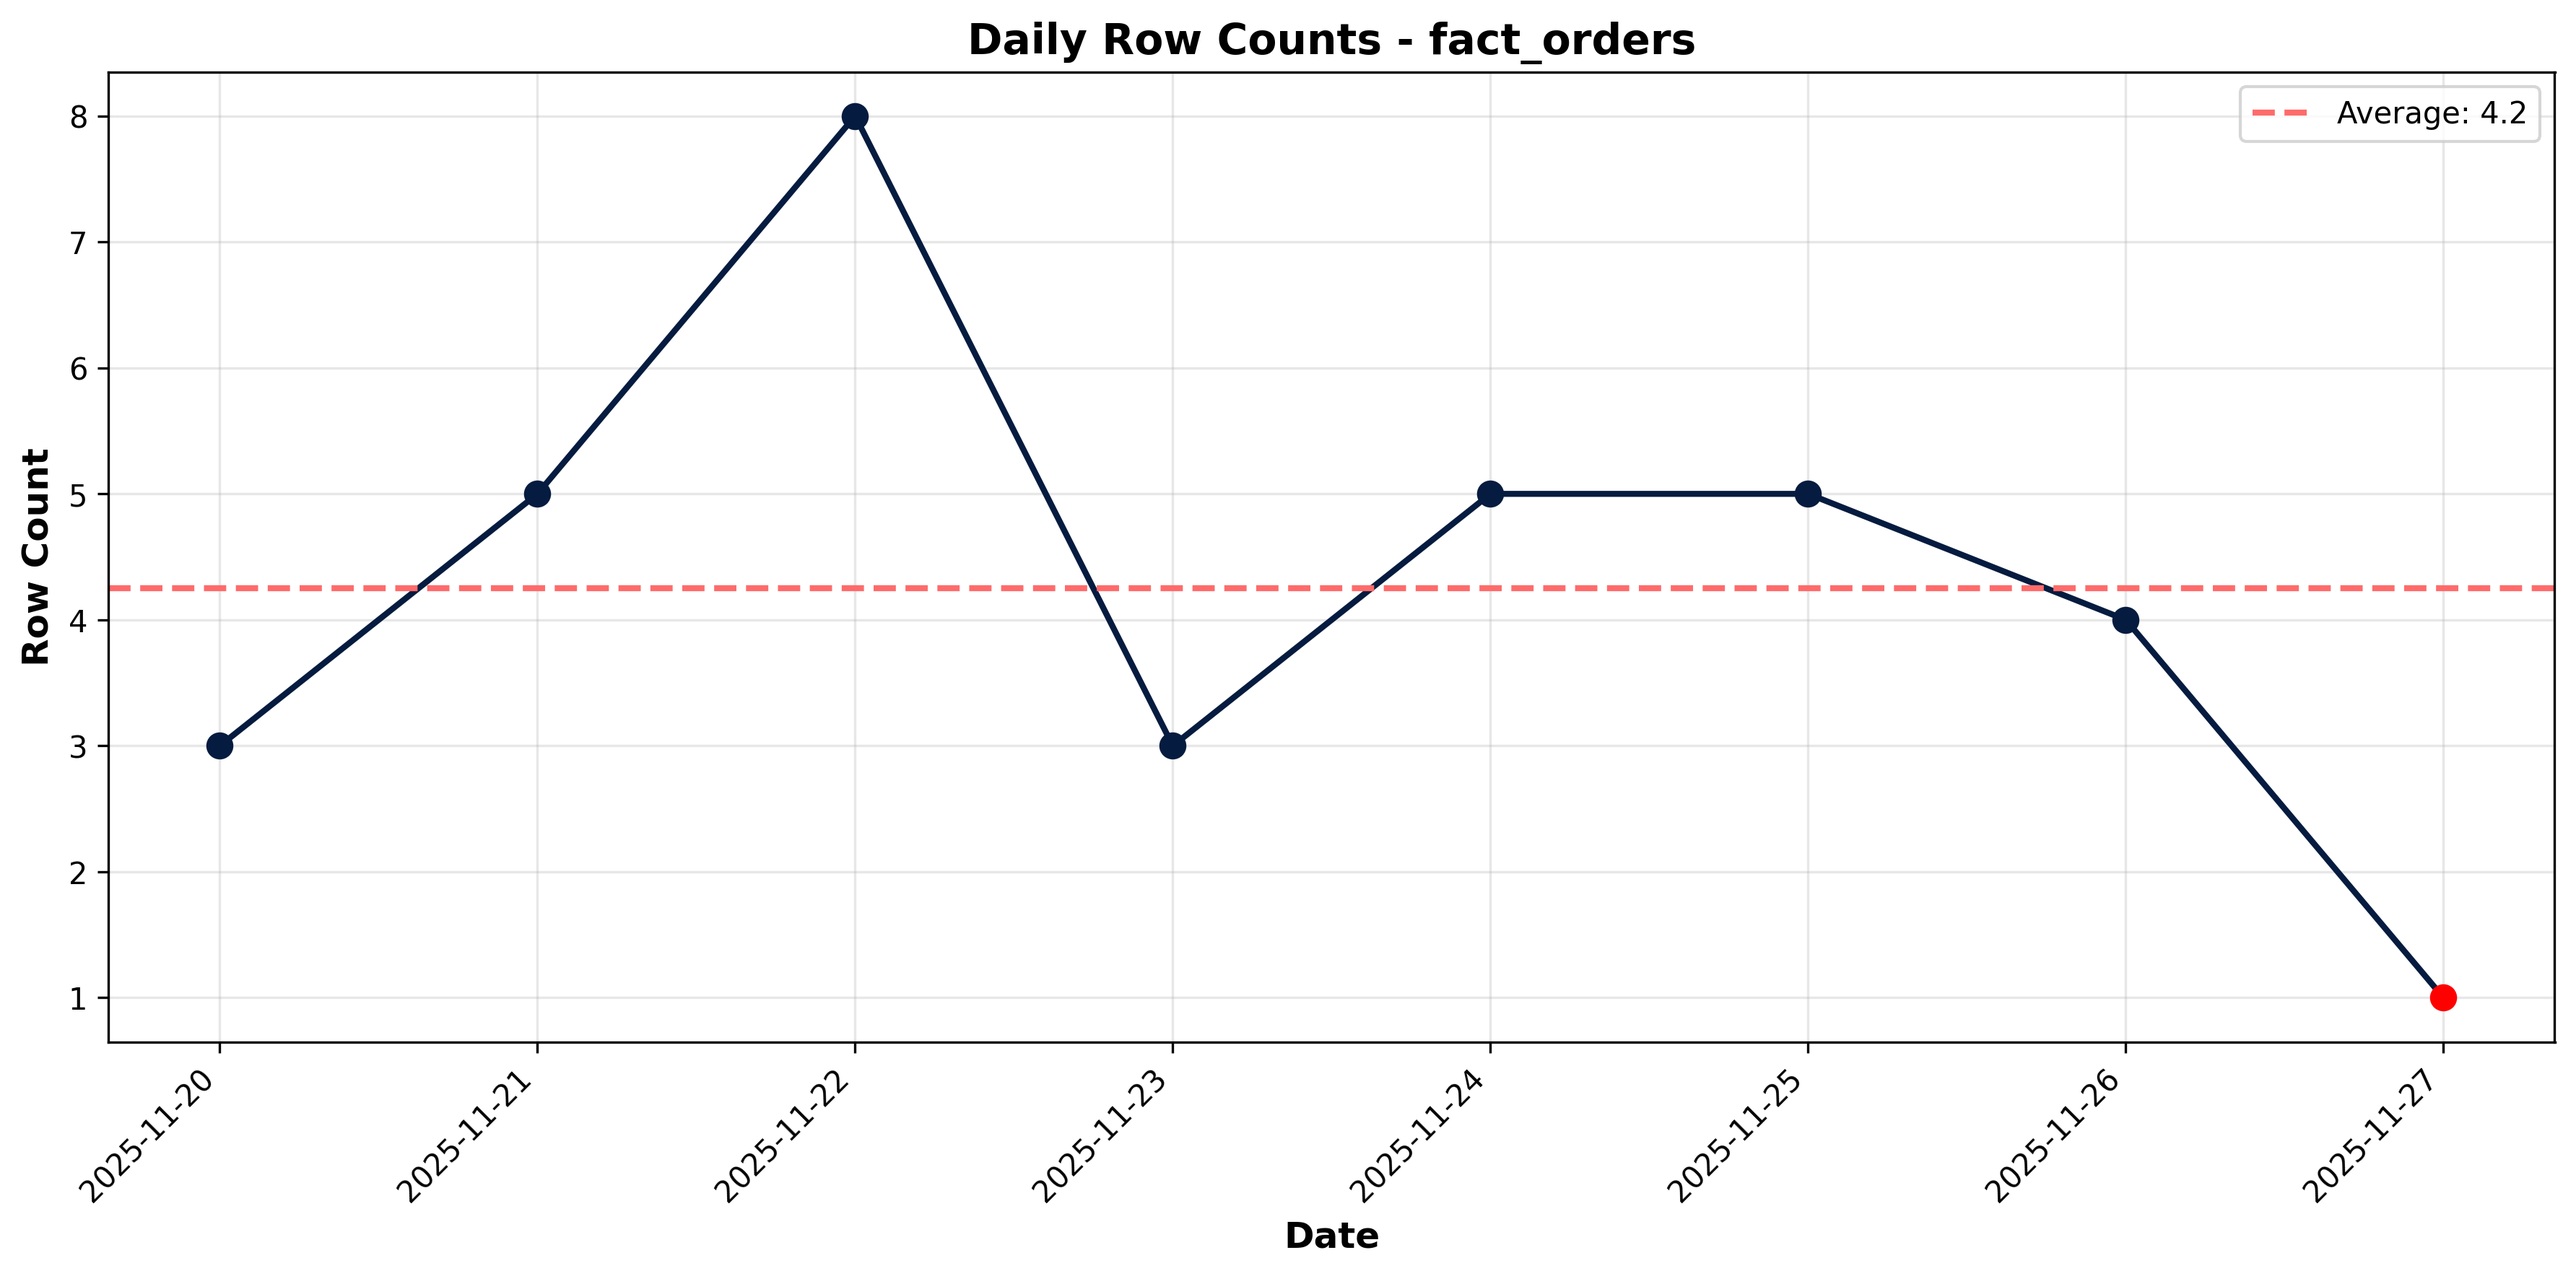
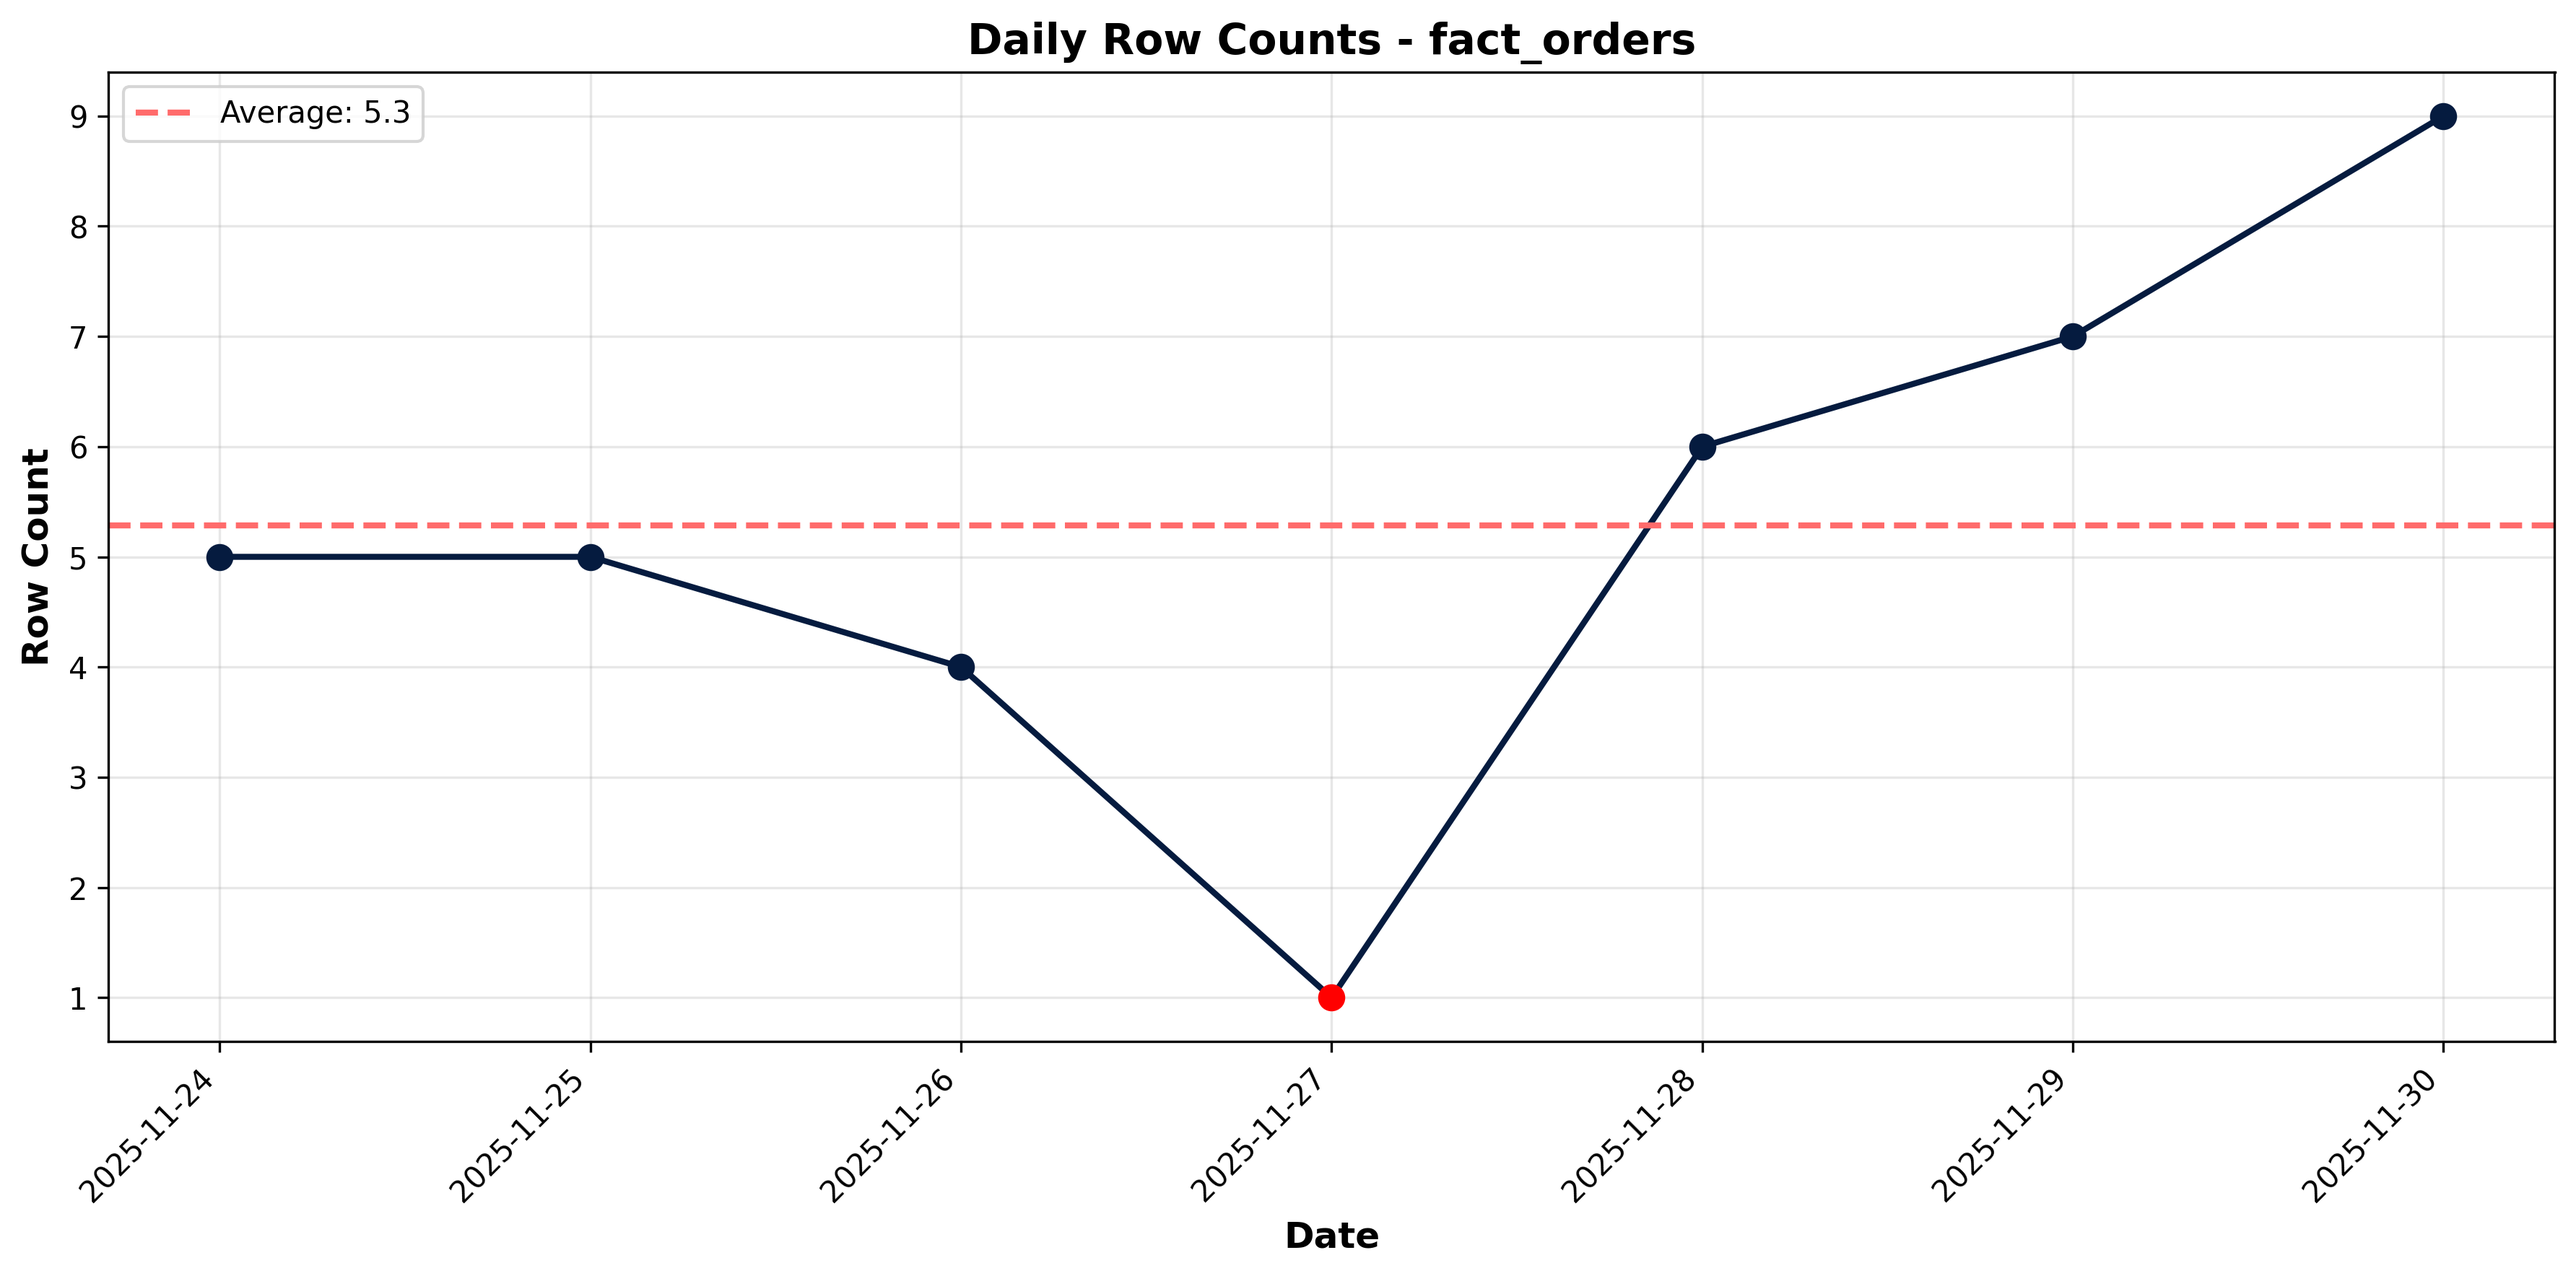
email notif done

diff --git a/src/utils/row_count_analytics.py b/src/utils/row_count_analytics.py
@@ -2,6 +2,8 @@
 from __future__ import annotations
 import argparse
 import logging
+import urllib.parse
+import webbrowser
 from pathlib import Path
 from datetime import datetime, timedelta
 import pandas as pd
@@ -119,13 +121,24 @@ def plot_row_counts(df: pd.DataFrame, output_path: Path | None = None, show: boo
         
         # Check if below 30% of floor(average) threshold and print warning
         if row["row_count"] < threshold:
-            print("\n" + "=" * 50)
-            print("⚠  WARNING: ORDER BELOW 30% OF 7-DAY AVERAGE")
-            print("=" * 50)
-            print(f"Date: {row['date']}")
-            print(f"Num Orders: {row['row_count']}")
-            print(f"Threshold: {threshold:.1f} (30% of floor({avg:.2f}) = 30% of {floor_avg})")
-            print("=" * 50 + "\n")
+            warning_lines = [
+                "=" * 50,
+                "WARNING: ORDER BELOW 30% OF 7-DAY AVERAGE",
+                "=" * 50,
+                f"Date: {row['date']}",
+                f"Num Orders: {row['row_count']}",
+                f"Threshold: {threshold:.1f} (30% of floor({avg:.2f}) = 30% of {floor_avg})",
+                "=" * 50,
+            ]
+            warning_message = "\n".join(warning_lines)
+            print("\n⚠  " + warning_message + "\n")
+
+            mailto_url = (
+                "mailto:Joshua.Feld@ibm.com"
+                "?subject=" + urllib.parse.quote("WARNING: Order Below 30% of 7-Day Average")
+                + "&body=" + urllib.parse.quote(warning_message)
+            )
+            webbrowser.open(mailto_url)
     
     # Add average line in custom red color
     plt.axhline(y=avg, color='#FF6B6B', linestyle='--', linewidth=2, 
